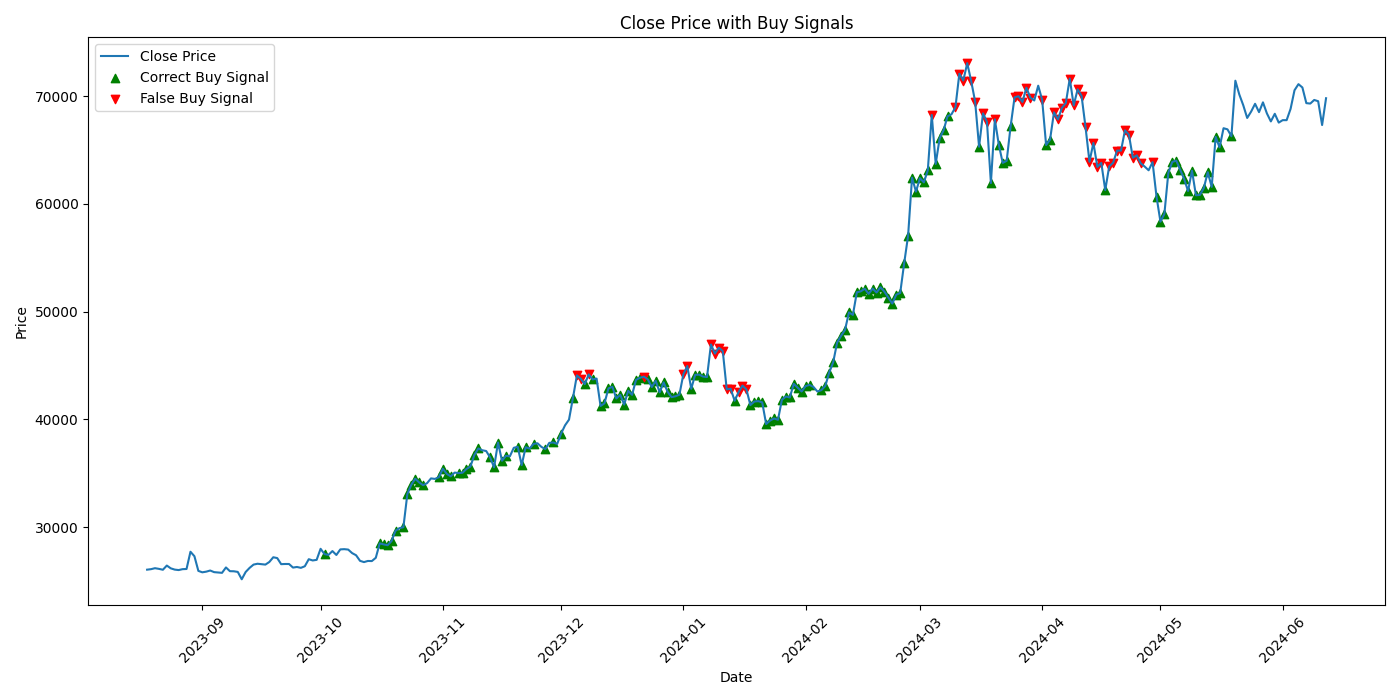
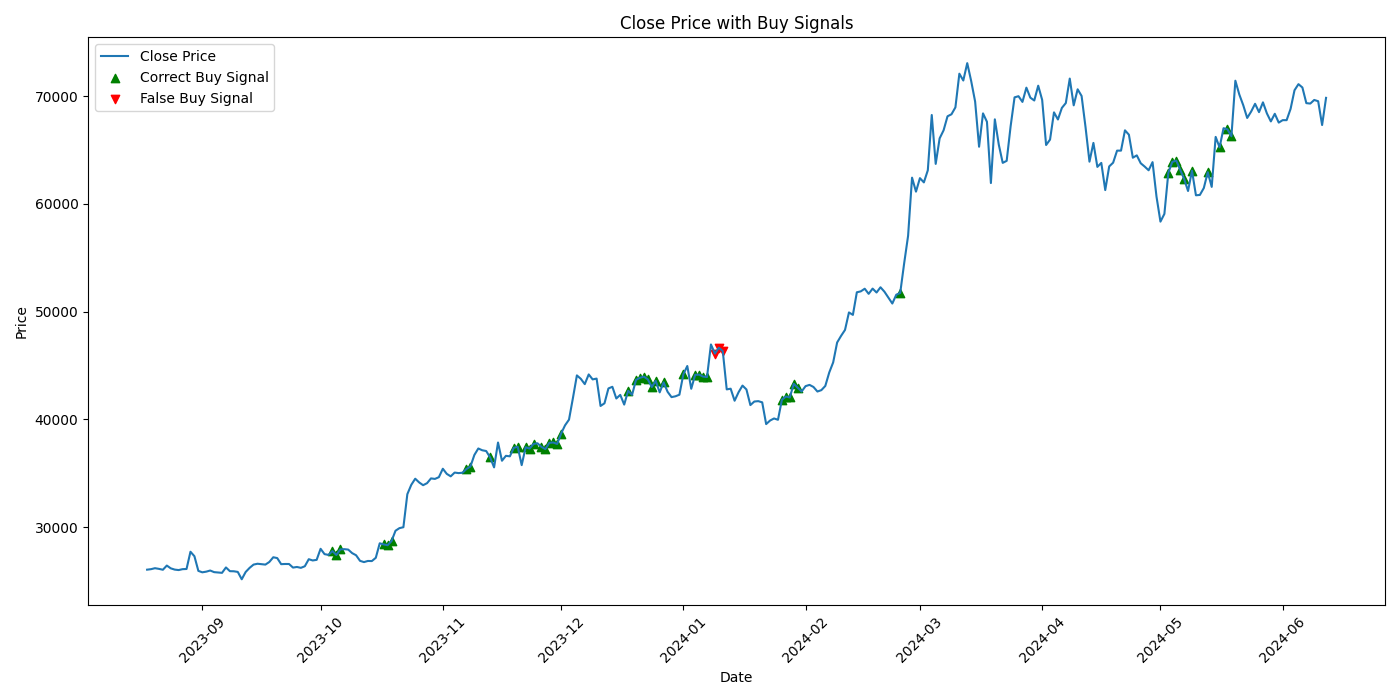
V1

diff --git a/Demo.py b/Demo.py
@@ -82,6 +82,23 @@ def calculate_indicators(df):
     
     df['Adj Close'] = df['Close']  # Assuming 'Adj Close' is same as 'Close' for this context
     
+    # Calculate ATR (Average True Range) for dynamic stop loss and take profit levels
+    df['TR'] = df[['High', 'Low', 'Close']].max(axis=1) - df[['High', 'Low', 'Close']].min(axis=1)
+    df['ATR'] = df['TR'].rolling(window=14).mean()
+
+    # Calculate Bollinger Bands
+    df['Upper Band'] = df['rolling_mean_20'] + (df['rolling_std_20'] * 2)
+    df['Lower Band'] = df['rolling_mean_20'] - (df['rolling_std_20'] * 2)
+
+    # Calculate ADX (Average Directional Index)
+    df['+DM'] = np.where((df['High'] - df['High'].shift(1)) > (df['Low'].shift(1) - df['Low']), df['High'] - df['High'].shift(1), 0)
+    df['-DM'] = np.where((df['Low'].shift(1) - df['Low']) > (df['High'] - df['High'].shift(1)), df['Low'].shift(1) - df['Low'], 0)
+    df['TR'] = np.max([df['High'] - df['Low'], np.abs(df['High'] - df['Close'].shift(1)), np.abs(df['Low'] - df['Close'].shift(1))], axis=0)
+    df['+DI'] = 100 * (df['+DM'].ewm(alpha=1/14).mean() / df['TR'].ewm(alpha=1/14).mean())
+    df['-DI'] = 100 * (df['-DM'].ewm(alpha=1/14).mean() / df['TR'].ewm(alpha=1/14).mean())
+    df['DX'] = 100 * np.abs((df['+DI'] - df['-DI']) / (df['+DI'] + df['-DI']))
+    df['ADX'] = df['DX'].ewm(alpha=1/14).mean()
+
     return df
 
 def apply_trading_strategy(df):
@@ -90,23 +107,33 @@ def apply_trading_strategy(df):
         X_test = df.drop(columns=["Close", "Date"]).tail(300)
         df['Predictions'] = ridge_regression.predict(X_test)
 
-        # Generate buy (1) signals based on model predictions
+        # Calculate volume threshold before using it
+        volume_threshold = df['Volume'].quantile(0.20)  # Using 20th percentile as threshold
+
+        # Generate buy (1) signals based on model predictions and Bollinger Bands confirmation
         df['Signal'] = 0
-        df.loc[df['Predictions'] > df['Close'], 'Signal'] = 1  # Buy signal
+        df.loc[(df['Predictions'] > df['Close']) & (df['Close'] > df['SMA_10']) & (df['Close'] < df['Upper Band']) & (df['ADX'] > 20) & (df['RSI'] < 70) & (df['Volume'] > volume_threshold), 'Signal'] = 1  # Added RSI and volume filter
 
-        # Apply volume filter
-        volume_threshold = df['Volume'].quantile(0.31)  # Using 31st percentile as threshold
-        df.loc[df['Volume'] < volume_threshold, 'Signal'] = 0  # No trade if volume is below threshold
+        # Apply a smoothing filter to reduce noise (e.g., exponential moving average on the signals)
+        df['Signal'] = df['Signal'].ewm(span=3, adjust=False).mean().round()  # Smoothing the signal
 
-        # Calculate take profit and stop loss levels
-        df['Take Profit'] = df['Close'] * (1 + take_profit_threshold)
-        df['Stop Loss'] = df['Close'] * (1 - take_profit_threshold)
+        # Increase the stop loss multiplier
+        stop_loss_multiplier = 3  # Increased stop loss multiplier to 3 times the ATR
+        take_profit_multiplier = 2  # Adjust take profit multiplier if needed
+
+        # Calculate dynamic take profit and stop loss levels using ATR
+        df['Take Profit'] = df['Close'] + df['ATR'] * take_profit_multiplier
+        df['Stop Loss'] = df['Close'] - df['ATR'] * stop_loss_multiplier
 
         # Calculate the amount to buy
         df['Amount to Buy'] = (available_capital * risk_per_trade) / (df['Close'] - df['Stop Loss'])
 
         # Calculate the possible profit percentage
         df['Possible Profit %'] = ((df['Take Profit'] - df['Close']) / df['Close']) * 100
+
+        # Implement a volatility filter to avoid trading during high volatility periods
+        volatility_threshold = df['ATR'].mean() * 1.5  # Example threshold; adjust as needed
+        df.loc[df['ATR'] > volatility_threshold, 'Signal'] = 0
 
         # Identify correct and false buy signals
         df['Correct Signal'] = np.nan
